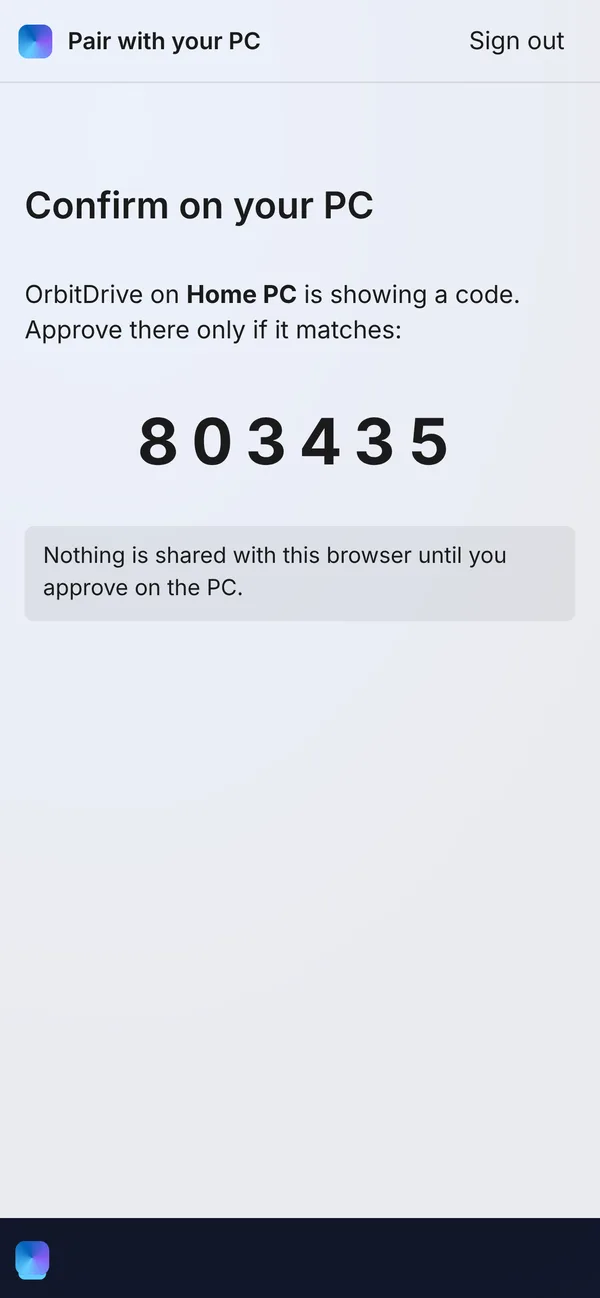
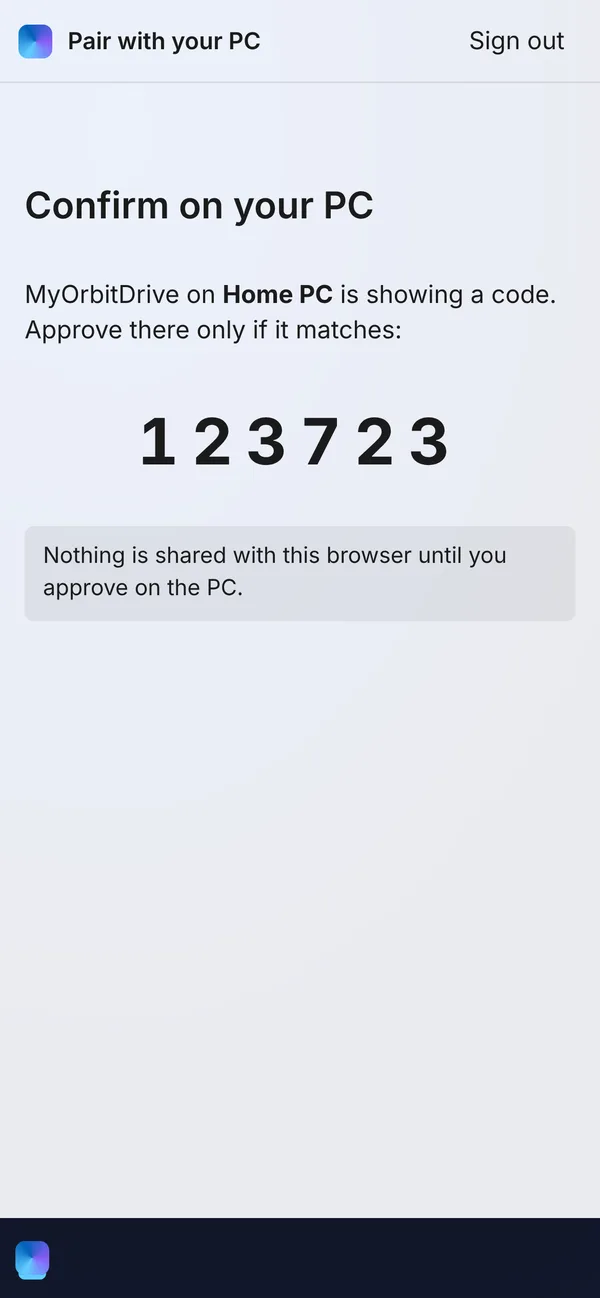
MyOrbitDrive rename: fix tests (archive default name, legacy shortcut test folder), refresh site screenshots
Claude-Session: https://claude.ai/code/session_01L77RmbDbewdtMg1oMJKzea

diff --git a/tests/desktop/OrbitDrive.Core.Tests/ArchiveTests.cs b/tests/desktop/OrbitDrive.Core.Tests/ArchiveTests.cs
@@ -185,7 +185,7 @@ public sealed class ArchiveTests : IDisposable
         var reference = archives.Start(new ArchiveRequest { EntryIds = [Entry(files, "r1", "Album"), Entry(files, "r1", "loose.txt")], Strict = false });
         var status = await Finish(archives, reference);
         Assert.Equal(0, status.OmittedCount);
-        Assert.Equal("OrbitDrive selection.zip", status.Name);
+        Assert.Equal("MyOrbitDrive selection.zip", status.Name);
         Assert.True(status.Resumable);
         var extracted = await Extract(files, archives, status, reference);
         AssertSame(root, extracted);

diff --git a/tests/desktop/OrbitDrive.Core.Tests/SendToShortcutsTests.cs b/tests/desktop/OrbitDrive.Core.Tests/SendToShortcutsTests.cs
@@ -25,6 +25,7 @@ public sealed class SendToShortcutsTests : IDisposable
         if (!OperatingSystem.IsWindows()) return;
         var exe = Path.Join(Environment.SystemDirectory, "cmd.exe");
         var legacy = Path.Join(_folder, SendToShortcuts.LegacyPrefix + "Phone.lnk");
+        Directory.CreateDirectory(_folder);
         File.WriteAllText(legacy, "old shortcut");
         SendToShortcuts.Sync(_folder, [new("abc-123", "Phone")], exe, "ctl");
         Assert.False(File.Exists(legacy));                                                  // the menu never lists the same phone twice
